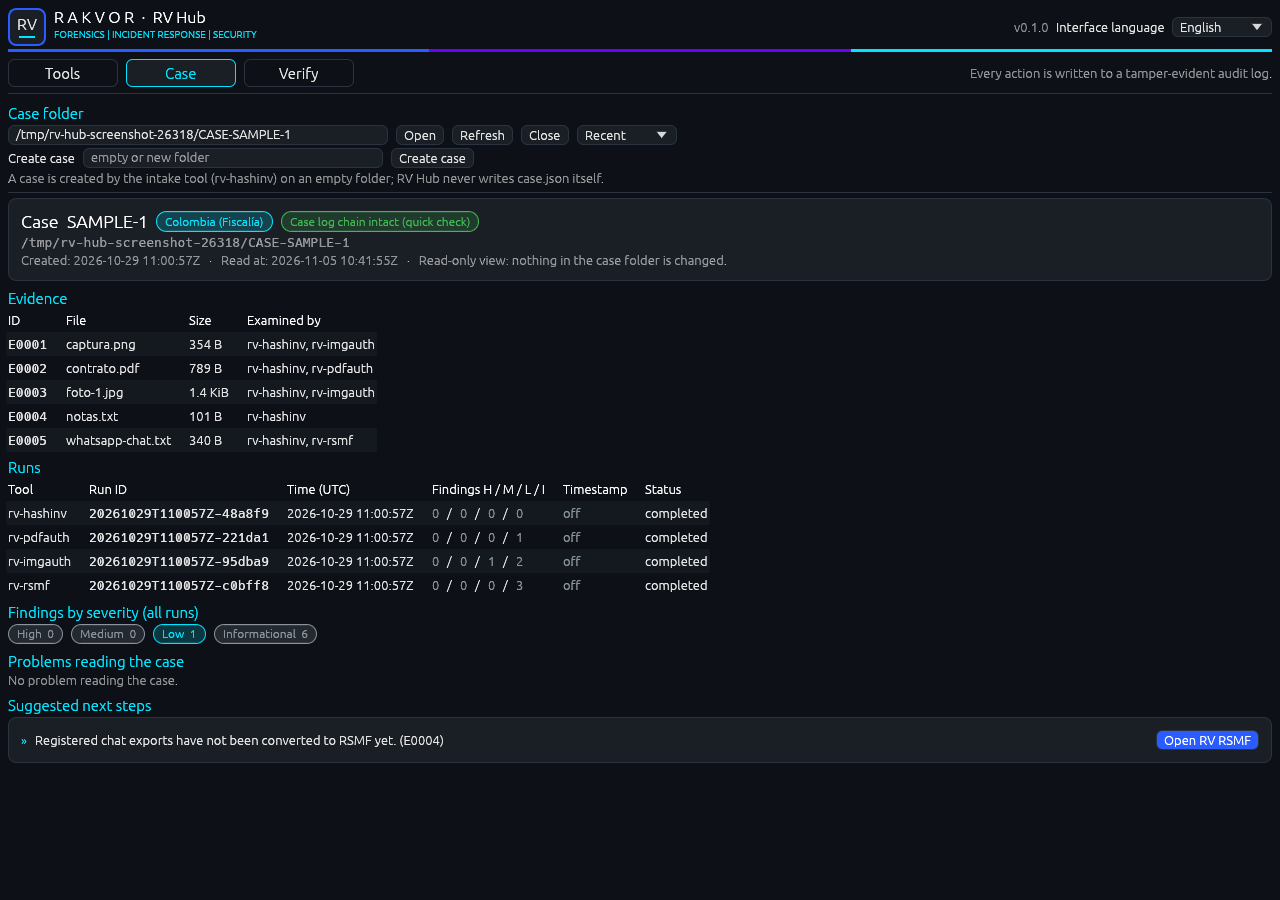
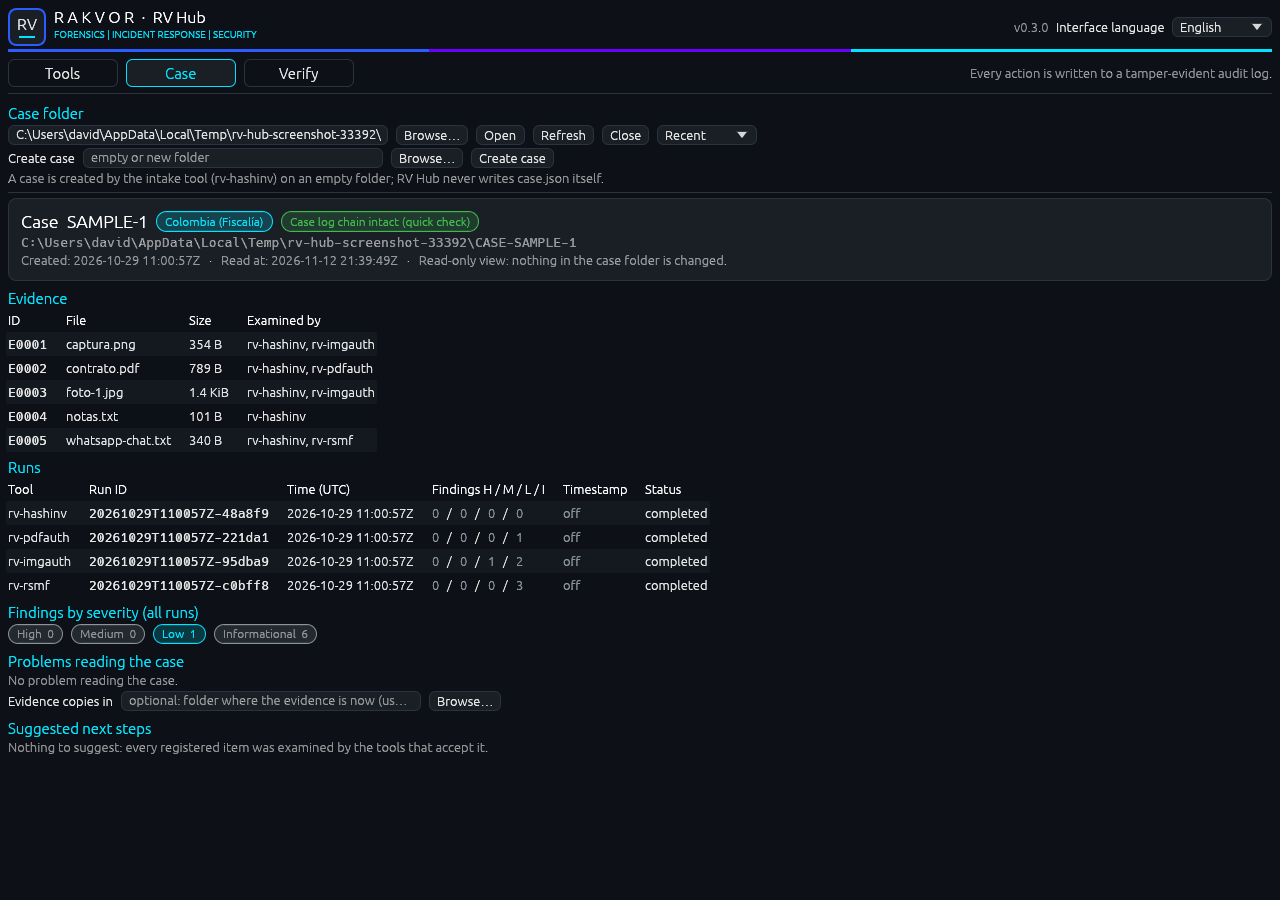
docs(gui): hub screenshots with the six tools at their released versions

diff --git a/src/gui/examples/hub_screenshot.rs b/src/gui/examples/hub_screenshot.rs
@@ -3,8 +3,8 @@
 //!     cargo run -p rv-hub-gui --example hub_screenshot -- docs/images/hub-tools.png tools [en|es|fr]
 //!     cargo run -p rv-hub-gui --example hub_screenshot -- docs/images/hub-case.png case [en|es|fr]
 //!
-//! The discovery is faked: the six Rakvor tools at their released versions (rv-hashinv 0.3.1, rv-pdfauth 0.3.0,
-//! rv-rsmf 0.2.0, rv-imgauth 0.2.0, rv-certcheck 0.2.0, rv-mailauth 0.1.0), all Rakvor-signed except one unsigned portable copy of
+//! The discovery is faked: the six Rakvor tools at their released versions (rv-hashinv 0.4.1, rv-pdfauth 0.4.1,
+//! rv-rsmf 0.3.1, rv-imgauth 0.3.1, rv-certcheck 0.2.2, rv-mailauth 0.2.0, its first release), all Rakvor-signed except one unsigned portable copy of
 //! rv-imgauth, to show the amber badge. The Case tab shows a copy of `examples/sample/case`. A few egui frames run, then egui's tessellated meshes are rasterised on the CPU
 //! (textured triangles, premultiplied alpha), so the picture is what the window draws, minus the GPU.
 #![forbid(unsafe_code)]
@@ -58,42 +58,42 @@ fn released_tools() -> Vec<ToolInfo> {
             &p("RV HashInv"),
             "rv-hashinv",
             signed.clone(),
-            "0.3.1",
+            "0.4.1",
             reg("rv-hashinv"),
         ),
         preview_tool(
             &p("RV PDFAuth"),
             "rv-pdfauth",
             signed.clone(),
-            "0.3.0",
+            "0.4.1",
             Source::LocalPrograms,
         ),
         preview_tool(
             &p("RV RSMF"),
             "rv-rsmf",
             signed.clone(),
-            "0.2.0",
+            "0.3.1",
             reg("rv-rsmf"),
         ),
         preview_tool(
-            std::path::Path::new(r"E:\rakvor-portable\rv-imgauth-0.2.0"),
+            std::path::Path::new(r"E:\rakvor-portable\rv-imgauth-0.3.1"),
             "rv-imgauth",
             SignatureStatus::Unsigned,
-            "0.2.0",
+            "0.3.1",
             Source::UserFolder,
         ),
         preview_tool(
             &p("RV CertCheck"),
             "rv-certcheck",
             signed.clone(),
-            "0.2.0",
+            "0.2.2",
             reg("rv-certcheck"),
         ),
         preview_tool(
             &p("RV MailAuth"),
             "rv-mailauth",
             signed,
-            "0.1.0",
+            "0.2.0",
             reg("rv-mailauth"),
         ),
     ];
